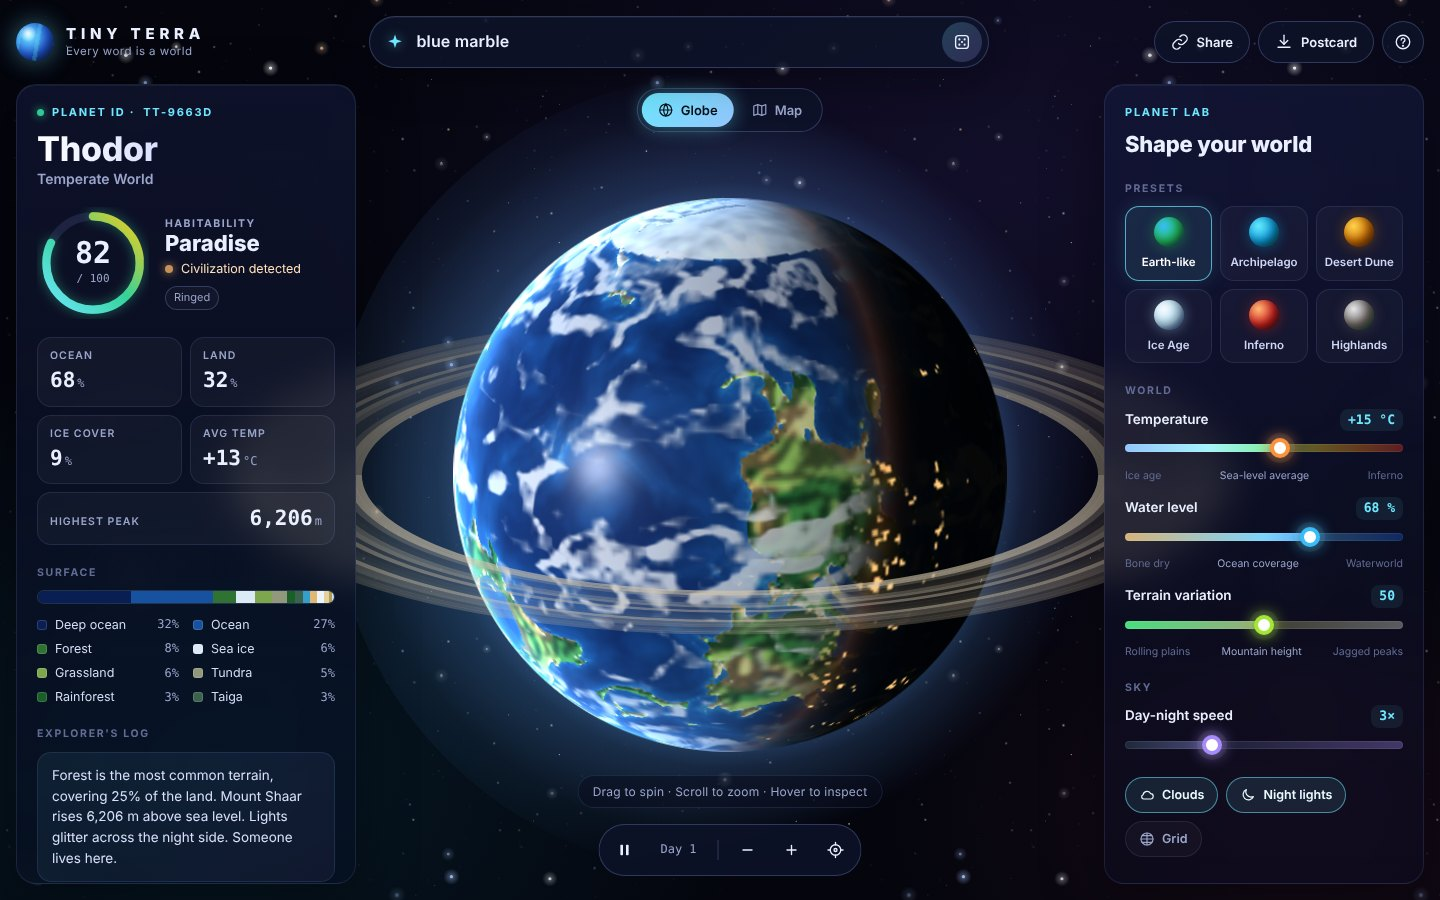
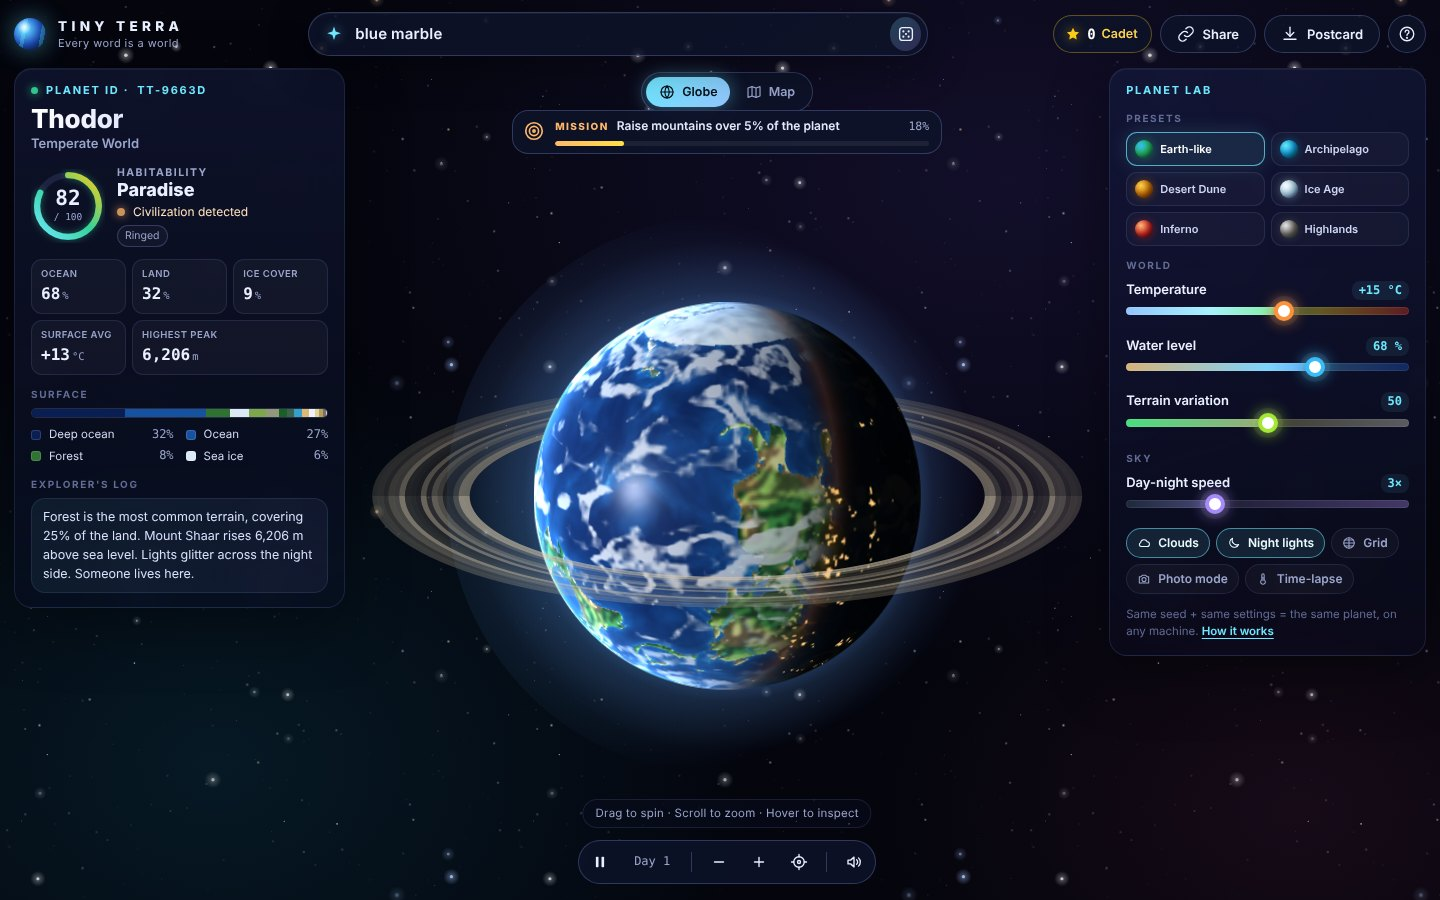
Mission confetti, star rank, photo mode and a fresh README screenshot
- Completing a mission bursts confetti and earns a star (once per planet,
  remembered on the device); ranks from Cadet to Star-forger in the top bar
- Photo mode (H, or the Lab toggle) hides everything but the planet, with
  an exit button for touch screens
- README screenshot shows the mission bar and star rank

Claude-Session: https://claude.ai/code/session_012Hmdpg5pdew6tSVq7J9siH

diff --git a/js/app.js b/js/app.js
@@ -816,6 +816,46 @@
     { text: 'Light up the night: grow a civilization', p: (s) => (s.civilization ? 1 : Math.min(0.95, s.habitability / 35)) },
   ];
   let mission = null;
+
+  // Stars: one per planet whose mission you complete (remembered on this device).
+  const RANKS = [[0, 'Cadet'], [1, 'Explorer'], [3, 'Pioneer'], [6, 'Terraformer'], [10, 'World-shaper'], [20, 'Star-forger']];
+  let earned = new Set();
+  try { earned = new Set(JSON.parse(localStorage.getItem('tinyterra-stars') || '[]').filter((x) => typeof x === 'number').slice(0, 5000)); } catch (e) { earned = new Set(); }
+  function rankFor(n) { let r = RANKS[0][1]; RANKS.forEach(([min, name]) => { if (n >= min) r = name; }); return r; }
+  function renderStars(pop) {
+    $('stars-count').textContent = String(earned.size);
+    $('stars-rank').textContent = rankFor(earned.size);
+    const el = $('stars');
+    el.title = earned.size + ' star' + (earned.size === 1 ? '' : 's') + ' earned · rank ' + rankFor(earned.size);
+    if (pop) { el.classList.remove('pop'); void el.offsetWidth; el.classList.add('pop'); }
+  }
+  function awardStar() {
+    if (earned.has(planet.hash)) return false;
+    const before = rankFor(earned.size);
+    earned.add(planet.hash);
+    try { localStorage.setItem('tinyterra-stars', JSON.stringify(Array.from(earned))); } catch (e) { /* private mode */ }
+    renderStars(true);
+    return rankFor(earned.size) !== before;
+  }
+
+  function confetti() {
+    if (reduceMotion) return;
+    const box = $('confetti'), r = missionEl.getBoundingClientRect();
+    const cx = r.left + r.width / 2, cy = r.top + r.height / 2;
+    const colors = ['#6ee7ff', '#34d399', '#facc15', '#fb7185', '#a78bfa', '#ffb86b'];
+    for (let i = 0; i < 46; i++) {
+      const p = document.createElement('i');
+      const a = Math.random() * Math.PI * 2, d = 90 + Math.random() * 220;
+      p.style.left = cx + 'px'; p.style.top = cy + 'px';
+      p.style.background = colors[i % colors.length];
+      p.style.setProperty('--dx', (Math.cos(a) * d).toFixed(0) + 'px');
+      p.style.setProperty('--dy', (Math.sin(a) * d * 0.7 + 160).toFixed(0) + 'px');
+      p.style.setProperty('--rot', (Math.random() * 720 - 360).toFixed(0) + 'deg');
+      p.style.animationDelay = (Math.random() * 0.12).toFixed(2) + 's';
+      box.appendChild(p);
+    }
+    setTimeout(() => { box.textContent = ''; }, 1900);
+  }
   const missionEl = $('mission'), missionText = $('mission-text'), missionPct = $('mission-pct'),
     missionFill = $('mission-fill'), missionLabel = $('mission-label');
 
@@ -849,7 +889,10 @@
       void missionEl.offsetWidth;
       missionEl.classList.add('celebrate');
       sfx('chime');
-      toast('Mission complete! Roll a new planet (R) for a new challenge.', 3200);
+      confetti();
+      const promoted = awardStar();
+      toast(promoted ? 'Mission complete! New rank: ' + rankFor(earned.size) + ' ★'
+        : 'Mission complete! +1 star. Roll a new planet (R) for a new challenge.', 3200);
     }
   }
 
@@ -1226,6 +1269,7 @@
       return;
     }
     if (e.key === 'Escape') {
+      if (document.body.classList.contains('photo')) setPhoto(false);
       if (document.activeElement === dom.seed) { dom.seed.value = state.seed; dom.seed.blur(); refreshSeedStatus(); }
       hideTip();
       return;
@@ -1247,6 +1291,7 @@
     else if (k === 'g' || k === 'G') setToggle('grid', !state.grid);
     else if (k === 't' || k === 'T') { setLapse(!lapse); }
     else if (k === 'a' || k === 'A') toggleSound();
+    else if (k === 'h' || k === 'H') setPhoto(!document.body.classList.contains('photo'));
     else if (k === 's' || k === 'S') share();
     else if (k === 'p' || k === 'P') savePostcard();
     else if ((k === '+' || k === '=') && state.view === 'globe') setZoom(view.targetZoom * 1.2);
@@ -1539,6 +1584,17 @@
     dom.sound.setAttribute('aria-pressed', on ? 'true' : 'false');
     dom.sound.setAttribute('aria-label', on ? 'Mute sound' : 'Turn sound on');
   }
+  function setPhoto(on) {
+    const now = document.body.classList.toggle('photo', !!on);
+    const el = $('tg-photo');
+    el.classList.toggle('on', now); el.setAttribute('aria-pressed', now ? 'true' : 'false');
+    hideTip();
+    if (now) toast('Photo mode: press H or Esc to bring the controls back', 2400);
+    sfx(now ? 'shutter' : 'off');
+  }
+  $('tg-photo').addEventListener('click', () => setPhoto(true));
+  $('photo-exit').addEventListener('click', () => setPhoto(false));
+
   function toggleSound() {
     if (!audio || !audio.supported) { toast('Sound is not supported in this browser'); return; }
     const on = audio.setEnabled(!audio.enabled);
@@ -1553,6 +1609,7 @@
   }
   dom.sound.addEventListener('click', toggleSound);
   updateSoundButton();
+  renderStars(false);
   dom.random.addEventListener('click', randomPlanet);
   dom.share.addEventListener('click', share);
   dom.save.addEventListener('click', savePostcard);

diff --git a/css/style.css b/css/style.css
@@ -134,6 +134,43 @@ svg { display: block; }
 .seed-status { color: var(--muted); font-size: 12px; white-space: nowrap; font-family: var(--mono); }
 
 .top-actions { display: flex; align-items: center; gap: 8px; flex: 0 0 auto; }
+.stars {
+  display: inline-flex; align-items: center; gap: 6px; height: 38px; padding: 0 13px 0 11px;
+  border-radius: 999px; background: var(--panel-strong); border: 1px solid rgba(250, 204, 21, .35);
+  color: #fde68a; font-size: 12.5px; white-space: nowrap;
+  backdrop-filter: blur(14px); -webkit-backdrop-filter: blur(14px);
+}
+.stars svg { width: 16px; height: 16px; fill: #facc15; filter: drop-shadow(0 0 6px rgba(250,204,21,.6)); }
+.stars b { font-family: var(--mono); font-size: 14px; color: #fff; }
+.stars-rank { color: #fcd34d; font-weight: 600; }
+.stars.pop { animation: star-pop .8s var(--ease); }
+@keyframes star-pop { 30% { transform: scale(1.25); box-shadow: 0 0 30px rgba(250,204,21,.6); } }
+
+.confetti { position: fixed; inset: 0; pointer-events: none; z-index: 70; overflow: hidden; }
+.confetti i {
+  position: absolute; width: 8px; height: 12px; border-radius: 2px; opacity: 0;
+  animation: confetti 1.5s cubic-bezier(.15,.7,.3,1) forwards;
+}
+@keyframes confetti {
+  0% { opacity: 1; transform: translate(0, 0) rotate(0); }
+  100% { opacity: 0; transform: translate(var(--dx), var(--dy)) rotate(var(--rot)); }
+}
+
+.photo-exit {
+  position: fixed; right: 16px; bottom: 16px; z-index: 40;
+  display: none; align-items: center; gap: 6px; height: 34px; padding: 0 12px;
+  border-radius: 999px; border: 1px solid var(--stroke); background: rgba(10,13,30,.45);
+  color: var(--muted); font-size: 12px; opacity: .55; transition: opacity .2s;
+}
+.photo-exit:hover, .photo-exit:focus-visible { opacity: 1; }
+.photo-exit svg { width: 14px; height: 14px; fill: none; stroke: currentColor; stroke-width: 2; stroke-linecap: round; }
+body.photo .photo-exit { display: inline-flex; }
+
+/* Photo mode: only the planet and the stars. */
+body.photo .topbar, body.photo .panel, body.photo .mission, body.photo .hud,
+body.photo .view-switch, body.photo .hint, body.photo .forming, body.photo .tooltip {
+  opacity: 0 !important; pointer-events: none !important; transition: opacity .4s;
+}
 
 .icon-btn, .pill-btn, .hud-btn {
   display: inline-flex; align-items: center; justify-content: center; gap: 8px;
@@ -603,6 +640,8 @@ kbd {
 }
 
 @media (max-width: 520px) {
+  .stars-rank { display: none; }
+  .stars { padding: 0 10px; }
   .app { padding: 10px; gap: 10px; }
   .brand-tag { display: none; }
   .brand-name { font-size: 13px; letter-spacing: .26em; }

diff --git a/index.html b/index.html
@@ -40,6 +40,10 @@
       </form>
 
       <div class="top-actions">
+        <div class="stars" id="stars" title="Stars earned by completing planet missions">
+          <svg viewBox="0 0 24 24" aria-hidden="true"><path d="M12 2.8l2.8 5.8 6.3.9-4.6 4.4 1.1 6.3L12 17.2l-5.6 3 1.1-6.3L2.9 9.5l6.3-.9z"/></svg>
+          <b id="stars-count">0</b><span class="stars-rank" id="stars-rank">Cadet</span>
+        </div>
         <button type="button" class="pill-btn" id="btn-share" title="Copy a link to this exact planet (S)">
           <svg viewBox="0 0 24 24" aria-hidden="true"><path d="M10 14a5 5 0 007.1 0l3-3a5 5 0 00-7.1-7.1l-1.2 1.2"/><path d="M14 10a5 5 0 00-7.1 0l-3 3a5 5 0 007.1 7.1l1.2-1.2"/></svg>
           <span>Share</span>
@@ -203,6 +207,9 @@
         <button type="button" class="toggle" id="tg-grid" aria-pressed="false" title="Latitude grid (G)">
           <svg viewBox="0 0 24 24" aria-hidden="true"><circle cx="12" cy="12" r="9"/><path d="M3 12h18M12 3v18M5 7h14M5 17h14"/></svg>Grid
         </button>
+        <button type="button" class="toggle" id="tg-photo" aria-pressed="false" title="Photo mode: hide everything but the planet (H)">
+          <svg viewBox="0 0 24 24" aria-hidden="true"><path d="M4 8h3l2-2.5h6L17 8h3v11H4z"/><circle cx="12" cy="13" r="3.5"/></svg>Photo mode
+        </button>
         <button type="button" class="toggle" id="tg-lapse" aria-pressed="false" title="Climate time-lapse: sweep the temperature from ice age to hothouse and back (T)">
           <svg viewBox="0 0 24 24" aria-hidden="true"><path d="M10 13.5V5a2 2 0 014 0v8.5a4 4 0 11-4 0z"/><path d="M12 9v6"/></svg>Time-lapse
         </button>
@@ -236,6 +243,7 @@
         <div><kbd>G</kbd> Grid</div>
         <div><kbd>T</kbd> Climate time-lapse</div>
         <div><kbd>A</kbd> Sound on or off</div>
+        <div><kbd>H</kbd> Photo mode</div>
         <div><kbd>1</kbd>–<kbd>6</kbd> Presets</div>
         <div><kbd>S</kbd> Share, <kbd>P</kbd> postcard</div>
       </div>
@@ -244,6 +252,10 @@
   </div>
 
   <div class="toast" id="toast" role="status" aria-live="polite"></div>
+  <div class="confetti" id="confetti" aria-hidden="true"></div>
+  <button type="button" class="photo-exit" id="photo-exit" aria-label="Exit photo mode">
+    <svg viewBox="0 0 24 24" aria-hidden="true"><path d="M6 6l12 12M18 6L6 18"/></svg>Exit photo mode
+  </button>
   <noscript><div class="noscript">Tiny Terra needs JavaScript to build planets.</div></noscript>
 
   <script src="js/terra.js"></script>

diff --git a/README.md b/README.md
@@ -15,7 +15,7 @@
 - Explore it as a rotating globe or a flat map. Sunlight sweeps across the planet in a day-night cycle, and city lights or lava glow on the night side.
 - Temperature, water level and terrain sliders reshape the planet live. A hot world spreads into deserts and a cold one freezes over. A climate time-lapse shows the ice caps advancing and retreating.
 - Each planet gets an ID card with a generated name, world type, habitability score and an explorer's log. Planets can be saved as postcards.
-- Every planet comes with a mission picked from its seed (for example "Freeze a third of the surface" or "Make it a Paradise"). A progress bar fills as you move the sliders, and completing it earns a star and a chime.
+- Every planet comes with a mission picked from its seed (for example "Freeze a third of the surface" or "Make it a Paradise"). A progress bar fills as you move the sliders, and completing it sets off confetti and earns a star towards your Terraformer rank (Cadet → Explorer → Pioneer → Terraformer → World-shaper → Star-forger).
 - Every planet also has its own sound: an ambient hum whose chord comes from the seed, an ocean swell that follows the water level, and gentle sound effects for every control (mute with the speaker button or `A`).
 
 ![Tiny Terra showing a ringed Earth-like planet](docs/preview.jpg)
@@ -60,6 +60,7 @@ Drag to spin, scroll or pinch to zoom, hover or tap to inspect a spot.
 | `Space` | Pause day and night |
 | `T` | Climate time-lapse |
 | `A` | Sound on or off |
+| `H` | Photo mode (hide everything but the planet) |
 | `C`, `L`, `G` | Clouds, night lights, grid |
 | `1`–`6` | Climate presets |
 | `S`, `P` | Share link, postcard |
